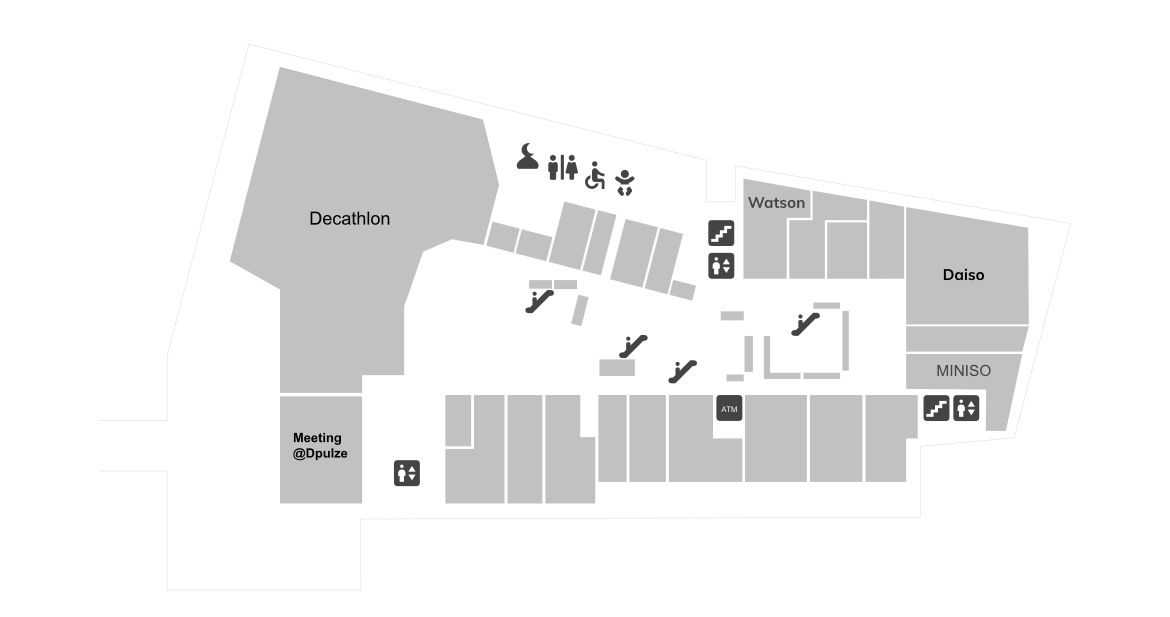
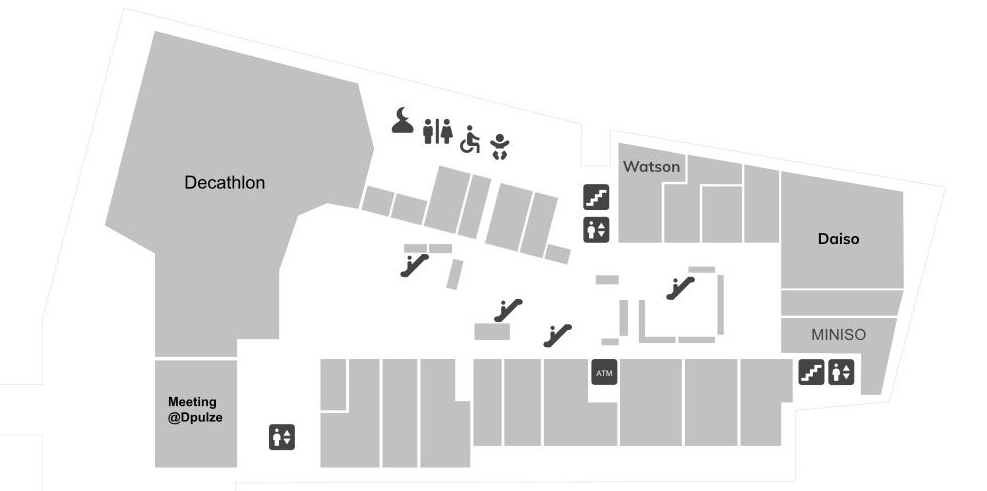
adjust nodes and routes

Changed region(s): [[0.0912, 0.0611, 0.9422, 0.9776]]

diff --git a/static/css/style.css b/static/css/style.css
@@ -527,7 +527,7 @@ display: none;
 
 /* #navigation-lines,
 #navigation-nodes {
-display: show;
+display: block;
 } */
 
 .poi-marker {
@@ -544,6 +544,20 @@ stroke: rgba(255, 152, 0, 0.01);
 pointer-events: all !important;
 cursor: pointer !important;
 }
+
+/* .poi-marker {
+fill: #ff9800;
+stroke: white;
+stroke-width: 3;
+}
+
+.poi-marker.utility-marker {
+fill: #ff9800;
+stroke: white;
+stroke-width: 3;
+pointer-events: all;
+cursor: pointer;
+} */
 
 .poi-marker.utility-marker.utility-selected {
 fill: #d96b32;

diff --git a/static/js/map.js b/static/js/map.js
@@ -1,5 +1,5 @@
 let mapData = null;
-const DEFAULT_FLOOR_ID = "2f";
+const DEFAULT_FLOOR_ID = "upper-ground";
 const DEFAULT_START_NODES = {
     ground: "node_01",
     "upper-ground": "ug_node_lift_south",
